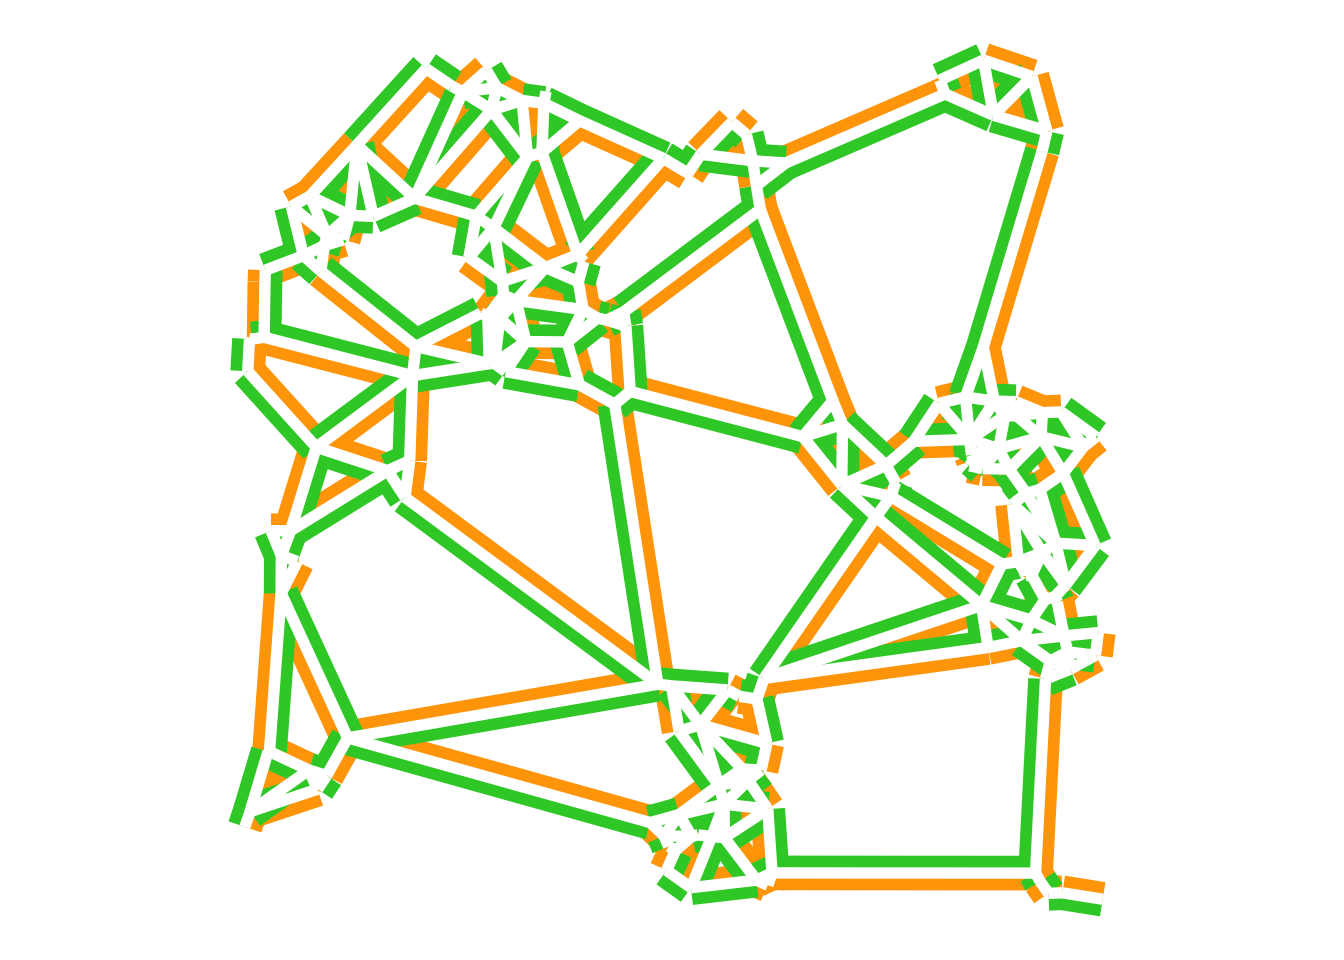
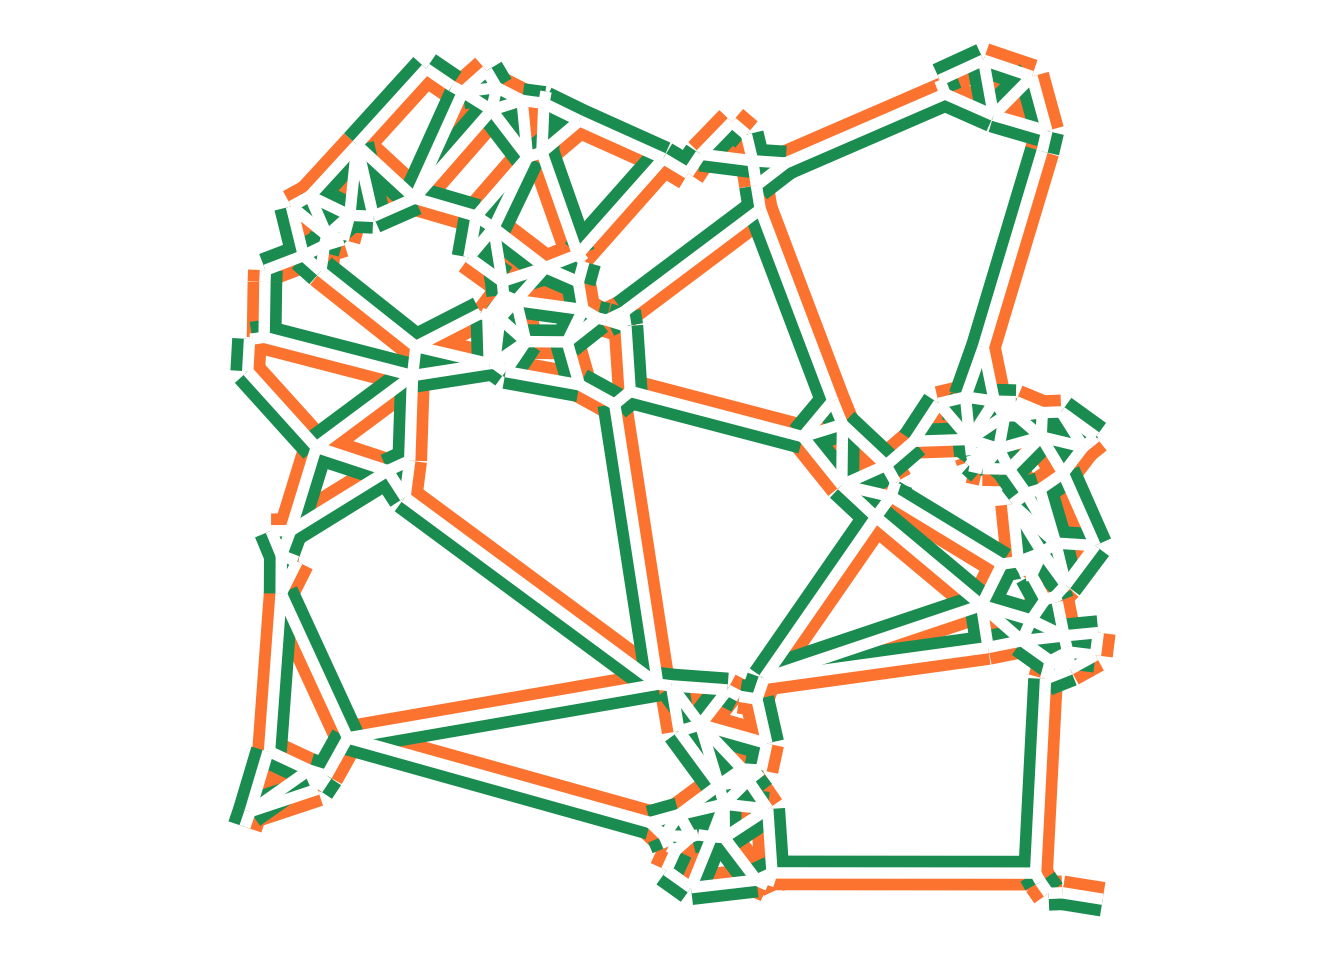
ireland flag colours

Changed region(s): [[0.1562, 0.0312, 0.8438, 0.9688]]

diff --git a/docs/posts/2025-09-12-gia-chapter-1B-part-2/index.html b/docs/posts/2025-09-12-gia-chapter-1B-part-2/index.html
@@ -523,8 +523,8 @@ First 10 features:
 <span id="cb7-5"><a href="#cb7-5" aria-hidden="true" tabindex="-1"></a>  <span class="fu">st_buffer</span>(<span class="sc">-</span><span class="dv">100</span>, <span class="at">singleSide =</span> <span class="cn">TRUE</span>)</span>
 <span id="cb7-6"><a href="#cb7-6" aria-hidden="true" tabindex="-1"></a></span>
 <span id="cb7-7"><a href="#cb7-7" aria-hidden="true" tabindex="-1"></a><span class="fu">ggplot</span>() <span class="sc">+</span></span>
-<span id="cb7-8"><a href="#cb7-8" aria-hidden="true" tabindex="-1"></a>  <span class="fu">geom_sf</span>(<span class="at">data =</span> left_buffers, <span class="at">fill =</span> <span class="st">"orange"</span>, <span class="at">colour =</span> <span class="cn">NA</span>) <span class="sc">+</span></span>
-<span id="cb7-9"><a href="#cb7-9" aria-hidden="true" tabindex="-1"></a>  <span class="fu">geom_sf</span>(<span class="at">data =</span> right_buffers, <span class="at">fill =</span> <span class="st">"limegreen"</span>, <span class="at">colour =</span> <span class="cn">NA</span>) <span class="sc">+</span></span>
+<span id="cb7-8"><a href="#cb7-8" aria-hidden="true" tabindex="-1"></a>  <span class="fu">geom_sf</span>(<span class="at">data =</span> left_buffers, <span class="at">fill =</span> <span class="st">"#FF883E"</span>, <span class="at">colour =</span> <span class="cn">NA</span>) <span class="sc">+</span></span>
+<span id="cb7-9"><a href="#cb7-9" aria-hidden="true" tabindex="-1"></a>  <span class="fu">geom_sf</span>(<span class="at">data =</span> right_buffers, <span class="at">fill =</span> <span class="st">"#169B62"</span>, <span class="at">colour =</span> <span class="cn">NA</span>) <span class="sc">+</span></span>
 <span id="cb7-10"><a href="#cb7-10" aria-hidden="true" tabindex="-1"></a>  <span class="fu">geom_sf</span>(<span class="at">data =</span> edges, <span class="at">lwd =</span> <span class="dv">2</span>, <span class="at">colour =</span> <span class="st">"white"</span>)</span></code><button title="Copy to Clipboard" class="code-copy-button"><i class="bi"></i></button></pre></div>
 </details>
 <div class="cell-output-display">
@@ -535,7 +535,7 @@ First 10 features:
 </div>
 </div>
 </div>
-<p>I am, of course, channeling the <a href="https://en.wikipedia.org/wiki/Flag_of_Ivory_Coast">flag of Cóte d’Ivoire</a> here, and not the <a href="https://en.wikipedia.org/wiki/Flag_of_Ireland">flag of Ireland</a>.</p>
+<p>I am, of course, channeling the <a href="https://en.wikipedia.org/wiki/Flag_of_Ivory_Coast">flag of Cóte d’Ivoire</a> here, and not the <a href="https://en.wikipedia.org/wiki/Flag_of_Ireland">flag of Ireland</a>.<a href="#fn2" class="footnote-ref" id="fnref2" role="doc-noteref"><sup>2</sup></a></p>
 </section>
 <section id="to-fields" class="level2">
 <h2 class="anchored" data-anchor-id="to-fields">… to fields</h2>
@@ -574,7 +574,7 @@ First 10 features:
 </div>
 </div>
 </div>
-<p>As with the points distance surface output the visual effect here is quite pleasing. Results similar to this may be useful when it comes to the area to line transformation based on polygon skeletonisation.<a href="#fn2" class="footnote-ref" id="fnref2" role="doc-noteref"><sup>2</sup></a></p>
+<p>As with the points distance surface output the visual effect here is quite pleasing. Results similar to this may be useful when it comes to the area to line transformation based on polygon skeletonisation.<a href="#fn3" class="footnote-ref" id="fnref3" role="doc-noteref"><sup>3</sup></a></p>
 
 
 </section>
@@ -584,7 +584,8 @@ First 10 features:
 
 <ol>
 <li id="fn1"><p>Warriors.<a href="#fnref1" class="footnote-back" role="doc-backlink">↩</a></p></li>
-<li id="fn2"><p>Spoilers.<a href="#fnref2" class="footnote-back" role="doc-backlink">↩</a></p></li>
+<li id="fn2"><p>Or have I? The colours in the two flags are not precisely the same, apparently.<a href="#fnref2" class="footnote-back" role="doc-backlink">↩</a></p></li>
+<li id="fn3"><p>Spoilers.<a href="#fnref3" class="footnote-back" role="doc-backlink">↩</a></p></li>
 </ol>
 </section></div></main> <!-- /main -->
 <script id="quarto-html-after-body" type="application/javascript">

diff --git a/docs/blog.html b/docs/blog.html
@@ -628,7 +628,7 @@ David O’Sullivan
 </a>
 </div>
 </div>
[2 lines of base64/hex data omitted]
 <div class="thumbnail">
 <p><a href="./posts/2025-09-12-gia-chapter-1B-part-2/index.html" class="no-external"></a></p><a href="./posts/2025-09-12-gia-chapter-1B-part-2/index.html" class="no-external">
 <p class="card-img-top"><img src="posts/2025-09-12-gia-chapter-1B-part-2/index_files/figure-html/make-lines-data-1.png" alt="30 random lines"  class="thumbnail-image card-img"/></p>
